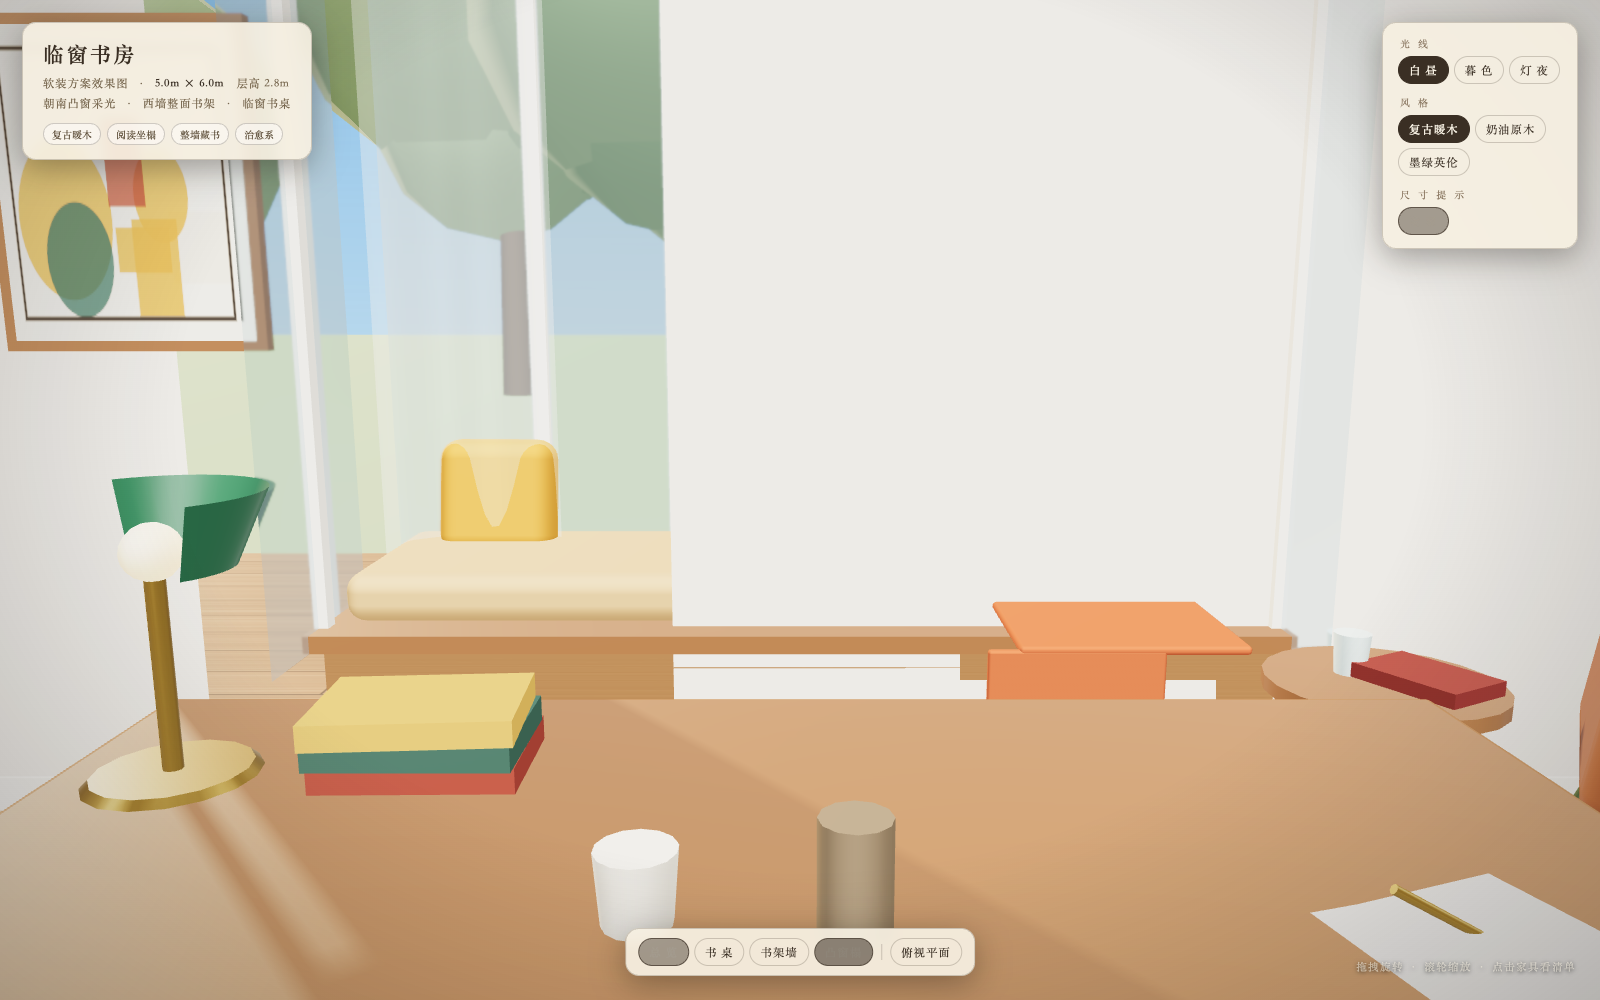
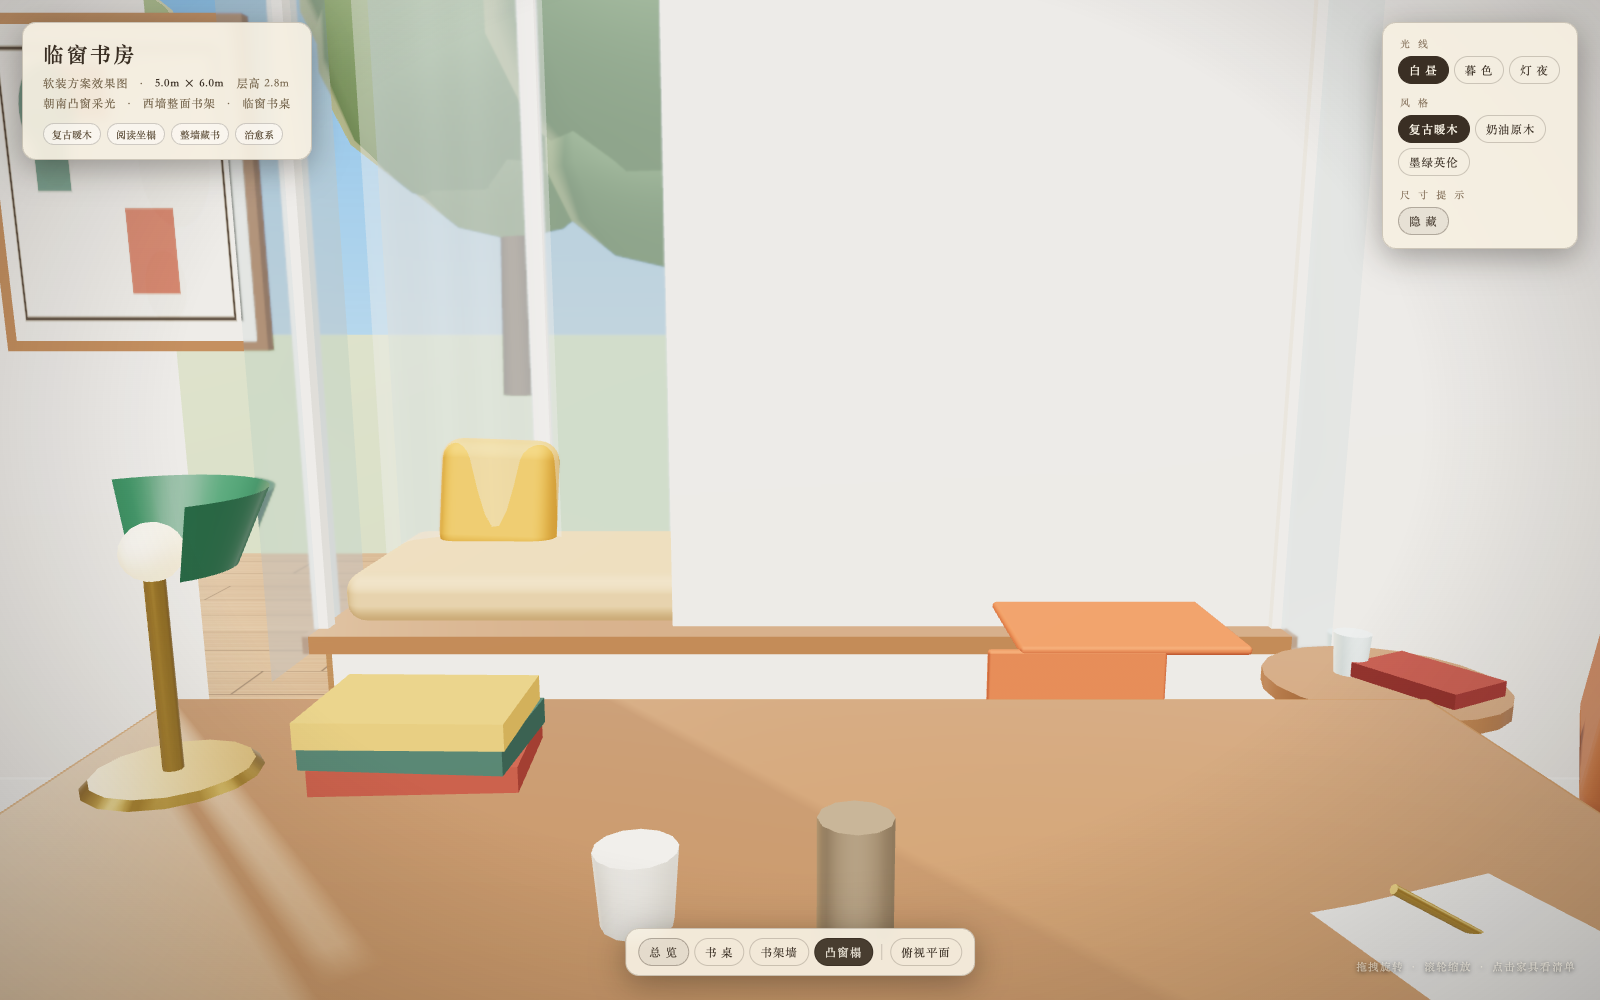
修复凸窗坐榻下沿墙壁Z-fighting频闪：座体前壁退离南墙12mm并加深座体；接触阴影统一高度消除随机重叠；圆毯/踢脚微调离缝

diff --git a/index.html b/index.html
@@ -293,7 +293,7 @@ function contactShadowTex(){
 function contactShadow(x,z,w,d,op=.5){
   const m=new THREE.Mesh(new THREE.PlaneGeometry(1,1),
     new THREE.MeshBasicMaterial({map:contactShadowTex(),transparent:true,opacity:op,depthWrite:false}));
-  m.rotation.x=-Math.PI/2; m.position.set(x,.0035+Math.random()*.0008,z);
+  m.rotation.x=-Math.PI/2; m.position.set(x,.0072,z);   // 统一高于地毯(y.004)/圆毯(.006)，杜绝随机高度闪面
   m.scale.set(w,d,1); m.renderOrder=2; scene.add(m); return m;
 }
 
@@ -376,14 +376,14 @@ ceil.material=SW.ceil; ceil.rotation.x=Math.PI/2; ceil.position.y=ROOM_H; scene.
 // 踢脚线
 function baseboard(len,pos,ry){ const b=box(len,.09,.014,SW.trim,false,false);
   b.position.set(...pos); b.rotation.y=ry; scene.add(b);}
-baseboard(1.3,[0.65,.045,0.009],0); baseboard(1.3,[4.35,.045,0.009],0);
-baseboard(ROOM_D,[ROOM_D-.007,.045,ROOM_D/2],Math.PI/2);
+baseboard(1.3,[0.65,.045,0.016],0); baseboard(1.3,[4.35,.045,0.016],0);
+baseboard(ROOM_D,[ROOM_D-.016,.045,ROOM_D/2],Math.PI/2);
 
 /* ================= 凸窗（南向飘窗 + 坐榻） ================= */
 {
   const bz=-0.62, bx0=1.28, bx1=3.72;
   // 座体
-  const seat=box(bx1-bx0,0.45,bz*-1,SW.baySeat); seat.position.set(2.5,0.225,bz/2); scene.add(seat);
+  const seat=box(bx1-bx0,0.45,0.66,SW.baySeat); seat.position.set(2.5,0.225,-0.342); scene.add(seat); // 前壁退离南墙12mm防深度冲突
   const top=box(bx1-bx0+.06,0.045,-bz+0.12,SW.deskW); top.position.set(2.5,0.4725,bz/2+0.03); scene.add(top);
   // 坐垫与抱枕
   const cush=rbox(bx1-bx0-.1,.13,-bz-0.02,.05,SW.cushion); cush.position.set(2.5,0.56,bz/2); cush.castShadow=false; scene.add(cush);
@@ -684,7 +684,7 @@ function leisureCorner(){
   fl.position.set(4.68,0,.38); scene.add(fl); window.__flamp=fl; tag(fl,'FLOORLAMP');
   // 圆形小毯
   const crug=new THREE.Mesh(new THREE.CircleGeometry(.72,36),SW.rugS);
-  crug.rotation.x=-Math.PI/2; crug.position.set(4.18,.006,.92); crug.receiveShadow=true; scene.add(crug);
+  crug.rotation.x=-Math.PI/2; crug.position.set(4.18,.0085,.92); crug.receiveShadow=true; scene.add(crug);
   tag(crug,'LOUNGERUG');
 }
 function cyl2(r,h,c,m){ return new THREE.Mesh(new THREE.CylinderGeometry(r,r*.92,h,12), m||mat0(c,{roughness:.7})); }
